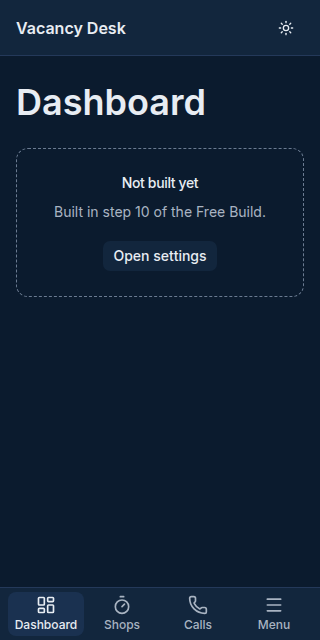
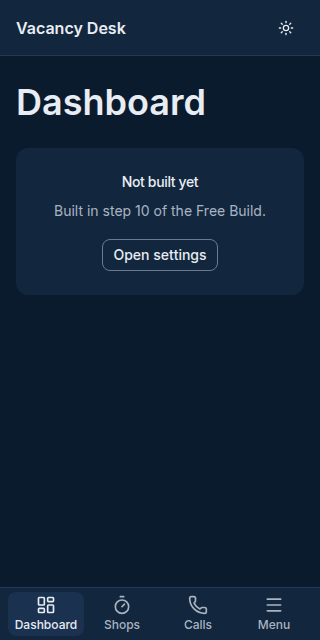
fix(design): review fixes, 44px touch targets, remove one decoration; add Checkpoint C review
Claude-Session: https://claude.ai/code/session_011nRm89oYrh5e79Cr2ypfQr

Changed region(s): [[0.1562, 0.2812, 0.8125, 0.3438], [0.3125, 0.375, 0.6875, 0.4375]]

diff --git a/components/states/empty-state.tsx b/components/states/empty-state.tsx
@@ -1,5 +1,6 @@
 import Link from "next/link";
 import { buttonVariants } from "@/components/ui/button";
+import { cn } from "@/lib/utils";
 import { Empty, EmptyContent, EmptyDescription, EmptyHeader, EmptyTitle } from "@/components/ui/empty";
 
 interface EmptyStateProps {
@@ -12,14 +13,14 @@ interface EmptyStateProps {
 
 export function EmptyState({ title, sentence, action }: EmptyStateProps) {
   return (
-    <Empty className="border-input border border-dashed">
+    <Empty className="bg-card">
       <EmptyHeader>
         <EmptyTitle>{title}</EmptyTitle>
         <EmptyDescription>{sentence}</EmptyDescription>
       </EmptyHeader>
       <EmptyContent>
         {/* Navigation is a real link, styled like a button. */}
-        <Link href={action.href} className={buttonVariants({ variant: "outline" })}>
+        <Link href={action.href} className={cn(buttonVariants({ variant: "outline" }))}>
           {action.label}
         </Link>
       </EmptyContent>

diff --git a/app/globals.css b/app/globals.css
@@ -217,6 +217,22 @@
   * {
     border-color: var(--border);
   }
+  /* Touch screens: every control is at least 44×44px (brief 8.8). */
+  @media (pointer: coarse) {
+    [data-slot="button"],
+    [data-slot="select-trigger"],
+    [data-slot="tabs-trigger"],
+    [data-slot="dropdown-menu-trigger"],
+    [data-slot="popover-trigger"],
+    [data-slot="tooltip-trigger"],
+    [data-slot="dialog-trigger"],
+    [data-slot="input"] {
+      min-height: 2.75rem;
+    }
+    [data-slot="button"]:is([data-size^="icon"]) {
+      min-width: 2.75rem;
+    }
+  }
   /* Keep keyboard focus clear of the fixed phone bottom bar (WCAG 2.4.11). */
   @media (width < 48rem) {
     html {

diff --git a/e2e/shell.spec.ts b/e2e/shell.spec.ts
@@ -65,3 +65,13 @@ test("the theme choice survives a reload", async ({ page }) => {
   await page.reload();
   await expect(page.locator("html")).toHaveAttribute("data-theme", "dark");
 });
+
+test("on touch screens every button is at least 44px tall", async ({ page }, info) => {
+  test.skip(info.project.name !== "phone-320", "touch project only");
+  await page.goto("/design");
+  const heights = await page
+    .locator('[data-slot="button"]:visible')
+    .evaluateAll((els) => els.map((el) => el.getBoundingClientRect().height));
+  expect(heights.length).toBeGreaterThan(5);
+  expect(Math.min(...heights)).toBeGreaterThanOrEqual(44);
+});

diff --git a/components/states/states.test.tsx b/components/states/states.test.tsx
@@ -81,3 +81,12 @@ describe("DisabledReason", () => {
     expect(button).toHaveAccessibleDescription("Add a mailing address in Settings first.");
   });
 });
+
+describe("EmptyState styling", () => {
+  it("gives its action link a visible outline border, not a transparent one", () => {
+    render(<EmptyState title="t" sentence="s" action={{ label: "Go", href: "/x" }} />);
+    const cls = screen.getByRole("link", { name: "Go" }).className.split(" ");
+    expect(cls).toContain("border-input");
+    expect(cls).not.toContain("border-transparent");
+  });
+});

diff --git a/docs/reviews/2026-09-28-checkpoint-c.md b/docs/reviews/2026-09-28-checkpoint-c.md
@@ -1,0 +1,50 @@
+# Checkpoint C review: tokens, /design and app shell
+
+- **Date:** 2026-09-28
+- **Scope:** Free Build Step 1 (Foundation), Tasks 1–42.
+- **Evidence:** `pnpm typecheck && pnpm lint && pnpm test && pnpm e2e` gives 210 unit tests and 73 end-to-end tests (320/768/1440) passing, with 0 axe violations in both themes. Screenshots are in `docs/screenshots/`.
+
+## Code review (high effort): 10 findings, 10 addressed
+
+| Severity  | Finding                                                                           | Outcome                                                                                                                                                                                      |
+| --------- | --------------------------------------------------------------------------------- | -------------------------------------------------------------------------------------------------------------------------------------------------------------------------------------------- |
+| Critical  | Do-not-call could be reset by deleting the row and re-adding it                   | Fixed: a database trigger blocks deleting flagged contacts and companies (`drizzle/0003`). **Carried into Step 2:** the CSV importer must match new rows against existing do-not-call firms. |
+| Important | `cn` treated `text-small`/`text-caption` as colors and dropped classes            | Fixed: extended `cn` in `lib/utils.ts`, and the normalizer points shadcn at it                                                                                                               |
+| Important | `getDb` cached a failed open forever                                              | Fixed, with a test                                                                                                                                                                           |
+| Important | `db:reset` could delete the database under a running app                          | Fixed: it takes the lock first (checked by hand: it refuses while locked)                                                                                                                    |
+| Important | Lock check-then-write race                                                        | Fixed: exclusive create (`wx`)                                                                                                                                                               |
+| Important | Real personal email committed in the seed                                         | Fixed: fictional default, optional `OWNER_EMAIL`. _It remains in earlier git history._                                                                                                       |
+| Important | Audit redaction missed contact names, notes and snake_case keys                   | Fixed, with tests                                                                                                                                                                            |
+| Important | `"9:00"` business-hours setting became NaN, so every shop was classed after-hours | Fixed: strict H:MM parsing that throws on anything else                                                                                                                                      |
+| Important | `/design` section ids contained spaces, which broke `aria-labelledby`             | Fixed: slugged ids, and e2e checks the named regions                                                                                                                                         |
+| Minor     | Some numbers bypassed `<Num>`                                                     | Fixed on `/design`. Placeholder "step N" copy left as is; those pages are replaced module by module.                                                                                         |
+
+## Design review (brief 8.12)
+
+Findings, ranked. None are 🔴.
+
+1. 🟠 **Touch targets were 28–32px on phones.** _What:_ `components/ui/button.tsx:21` (h-8) and the other triggers. _Why:_ brief 8.8 requires 44px touch targets. _Fix (done):_ a `pointer: coarse` minimum of 44px in `app/globals.css`. The e2e test fails without it (28px) and passes with it.
+2. 🟠 **Outline buttons had no visible edge.** _What:_ `components/ui/button.tsx:11`, `components/states/empty-state.tsx:22`. _Why:_ the decorative border is 1.36:1, so controls read as plain text. _Fix (done):_ the `border-input` edge (3.99:1) through the normalizer and `cn`, with a regression test.
+3. 🟠 **The gold focus ring failed 3:1 on warm white (1.96:1).** _What:_ design tokens. _Why:_ WCAG 2.4.11 / 1.4.11. _Fix (done):_ a navy outline with a gold halo in light mode, gold alone in dark mode.
+4. 🟠 **Focus hidden behind the phone bottom bar.** _What:_ `app/(app)/layout.tsx:52`. _Why:_ WCAG 2.4.11. _Fix (done):_ `scroll-padding-bottom` below 768px, covered by a keyboard e2e test.
+5. 🟠 **Wide tables weren't keyboard-scrollable at 320px.** _What:_ `components/ui/table.tsx:6`. _Why:_ axe `scrollable-region-focusable`. _Fix (done):_ a focusable, labelled region, with a regression test.
+6. 🟡 **Inactive tab labels used translucent text (3.84:1).** _What:_ `components/ui/tabs.tsx`. _Fix (done):_ the normalizer maps them to `muted-foreground` (6.39:1).
+7. 🟡 **The theme icon was wrong for a frame before hydration.** _What:_ `components/theme-toggle.tsx`. _Fix (done):_ CSS keyed on `data-theme`, covered by an e2e test.
+8. 🟡 **"Mystery shops" wrapped to two lines in the phone bar.** _Fix (done):_ a `shortLabel` of "Shops".
+9. 🟡 **Skeletons are very quiet** (`bg-muted` on the background, about 1.07:1). _Why:_ on some screens the loading state could look empty. _Fix:_ revisit in Step 2, where the first real list gets a loading state. Decorative, so there's no WCAG requirement.
+10. 🟡 **`main` uses `outline-none` as the skip-link target.** _Why:_ focus moves there but nothing shows it. Programmatic focus on a non-interactive landmark is exempt, and the skip link itself is visible. _Fix:_ no change; recorded for the Step 10 accessibility pass.
+
+**Decoration removed (brief 8.1):** the dashed border around empty states.
+
+**Strengths**
+
+- Every color pair is contrast-tested in both themes, and tokens can't drift from the CSS (sync test).
+- Status is always icon + label + color. Numbers are tabular, and missing data shows "unknown".
+- Keyboard-only, reduced-motion and axe checks run at three widths in CI, not just once by hand.
+- The normalizer brings every future `shadcn add` in line with the design contract automatically.
+
+## Not verifiable in this container (for the founder on the Mac)
+
+- **200% zoom:** reflow is covered by the 320px tests (the same CSS width as 1280px at 400%), but a manual check at 200% is still worth a minute.
+- **VoiceOver smoke test:** needs macOS. ⌘F5 turns VoiceOver on. Tab through `/dashboard` and `/design` and listen for the landmarks, "Skip to content" and the nav names.
+- **Next.js 16.3.7** (security release due 30 Sept): not published yet (16.3.6 is the latest today). Bump it when it's out.

diff --git a/CHANGELOG.md b/CHANGELOG.md
@@ -2,7 +2,7 @@
 
 All notable changes to this project. Format: [Keep a Changelog](https://keepachangelog.com/). Versions follow the Free Build steps.
 
-## [Unreleased]: Step 1 Foundation (in progress)
+## [Unreleased]: Step 1 Foundation (complete, awaiting Checkpoint C)
 
 ### Added
 
@@ -19,7 +19,22 @@ All notable changes to this project. Format: [Keep a Changelog](https://keepacha
 - Domain logic: business/Saturday/after-hours bucketing across daylight saving and US federal holidays, pricing and expected MRR.
 - Fictional seed data: 50 NYC-metro firms (5 on AppFolio, 5 duplicates), 40 mystery shops (8 with no reply), 25 calls, 12 deals, 2 pilots on day 7 (one on track, one at risk), 12 weeks of metrics, and default settings (Day 0 29 Sept 2026, deadline 28 Dec 2026).
 
+- shadcn/ui on Base UI (21 components), with a tested normalizer (`pnpm ui:normalize`) that enforces the design contract on every added component.
+- Status badge, six-state components, icon set, theme toggle (no flash) and a responsive shell (sidebar, drawer, phone bar).
+- `/design` page and 12 screenshots (3 widths × 2 themes × shell/design).
+- End-to-end tests: axe in both themes, keyboard-only focus visibility, reduced motion, 44px touch targets and theme persistence.
+
+### Fixed (code and design review)
+
+- Do-not-call rows can no longer be deleted (the delete-and-re-add bypass).
+- `cn` now knows the type-scale utilities. getDb retries after a failed open. The lock is atomic. `db:reset` respects the lock.
+- Seed owner email is fictional. Audit redaction covers names, notes and snake_case keys.
+- Strict H:MM business-hours parsing. Valid section ids on `/design`.
+- Accessibility: focusable table scroll regions, focus kept clear of the phone bar, visible outline-button edges, readable inactive tabs.
+
 ### Changed (from the plan)
+
+- Execution mode: executing-plans (sequential tasks) instead of subagent-driven.
 
 - Next 16 renamed `middleware.ts` to `proxy.ts`.
 - Inter is self-hosted, so builds work offline.
